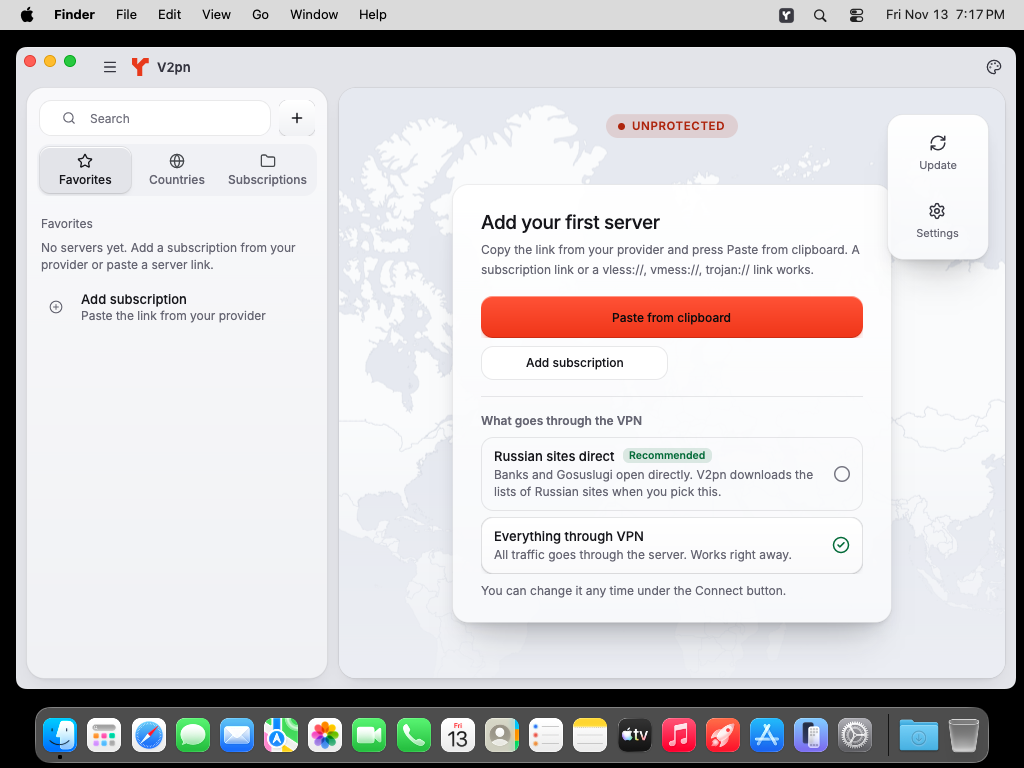
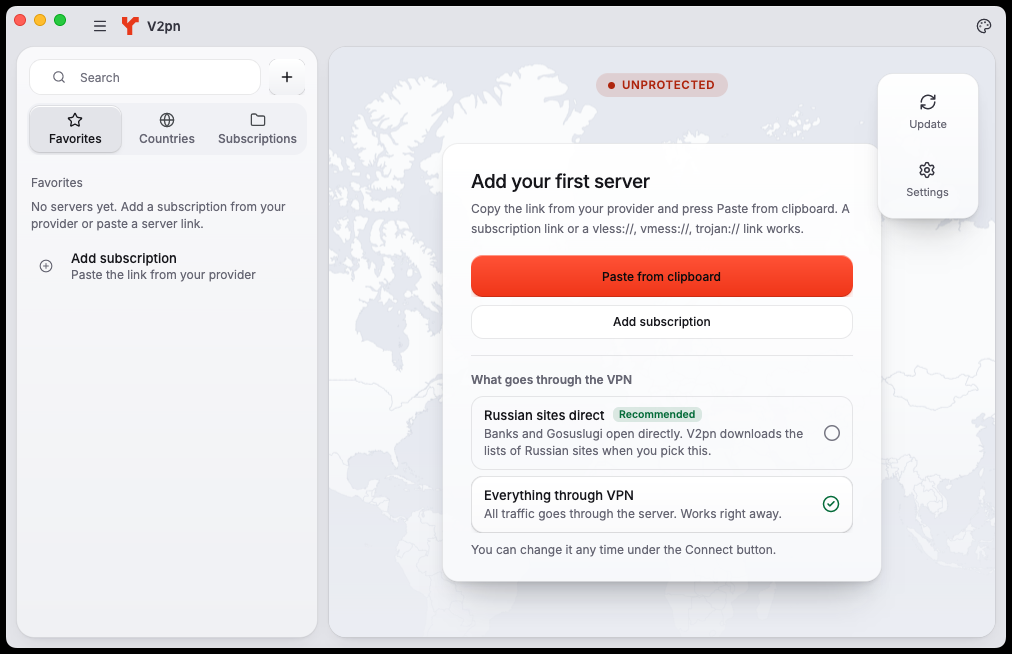
V2pn: front page shows the app in use; release pages say which file to take
README: badges for version, license and build; a screenshot of the connected
app with demo servers (Russian and English) instead of the empty first-run
window; the macOS picture is the current build, cropped to the window; a line
that there is no Linux build and what the inherited v2rayN folders and scripts
are. SECURITY.md says how to report a vulnerability privately. Release notes no
longer repeat the title and end with a download table and a note on the files
meant for the updater (tools/release-notes-footer.md). A social preview image
is in docs/images for the owner to upload.

diff --git a/README.en.md b/README.en.md
@@ -1,10 +1,14 @@
 # V2pn
 
+[![release](https://img.shields.io/github/v/release/Piwqust/V2pn?label=release)](https://github.com/Piwqust/V2pn/releases/latest)
+[![license](https://img.shields.io/github/license/Piwqust/V2pn?label=license)](LICENSE)
+[![build](https://img.shields.io/github/actions/workflow/status/Piwqust/V2pn/v2pn-ci.yml?branch=v2pn&label=build)](https://github.com/Piwqust/V2pn/actions/workflows/v2pn-ci.yml)
+
 A VPN client for Windows and macOS with a simple interface. It runs [v2rayN](https://github.com/2dust/v2rayN) with the Xray, sing-box and mihomo cores inside, so the same servers and subscriptions work: VLESS, VMess, Trojan, Shadowsocks, Hysteria2, TUIC, WireGuard.
 
 [Русский](README.md)
 
-![V2pn main window](docs/images/main.png)
+<p align="center"><img src="docs/images/main-en.png" alt="V2pn main window: the country list, the map and the connection status" width="860"></p>
 
 ## Download
 
@@ -14,6 +18,8 @@ A VPN client for Windows and macOS with a simple interface. It runs [v2rayN](htt
 | Windows 11, ARM64 | [V2pn-windows-arm64.zip](https://github.com/Piwqust/V2pn/releases/latest/download/V2pn-windows-arm64.zip) |
 | macOS 13.6 or later, Apple silicon | [V2pn-macos-arm64.dmg](https://github.com/Piwqust/V2pn/releases/latest/download/V2pn-macos-arm64.dmg) |
 | macOS 13.6 or later, Intel | [V2pn-macos-x64.dmg](https://github.com/Piwqust/V2pn/releases/latest/download/V2pn-macos-x64.dmg) |
+
+There is no Linux build.
 
 All versions: [Releases](https://github.com/Piwqust/V2pn/releases). Changes: [CHANGELOG.md](CHANGELOG.md) (in Russian).
 
@@ -39,7 +45,7 @@ xattr -cr /Applications/V2pn.app
 
 On a Mac, settings and servers live in `~/Library/Application Support/V2pn`.
 
-![V2pn on macOS](docs/images/macos.png)
+<p align="center"><img src="docs/images/macos.png" alt="V2pn on macOS: first run" width="640"></p>
 
 The macOS build is new: an automated check builds it and starts it on a Mac, but few people have used it on real machines yet. If something does not work, [open an issue](https://github.com/Piwqust/V2pn/issues/new/choose).
 
@@ -76,7 +82,7 @@ Every six hours V2pn checks for a new version, downloads it in the background an
 - Settings, servers and cores are not touched by an update.
 - Cores (Xray, sing-box, mihomo) and site lists are updated separately in the same window.
 
-How versions are released and checked: [docs/V2PN-RELEASES.md](docs/V2PN-RELEASES.md) (in Russian).
+What exactly is checked before installing: [docs/V2PN-RELEASES.md](docs/V2PN-RELEASES.md#что-именно-проверяется) (in Russian).
 
 ## Building from source
 
@@ -94,7 +100,14 @@ dotnet build V2pn/v2rayN/v2rayN.Desktop/v2rayN.Desktop.csproj -c Release
 dotnet test --project V2pn/v2rayN/ServiceLib.Tests/ServiceLib.Tests.csproj -c Release
 ```
 
+The sources live in the `v2rayN/` folder: the name is kept from the original so that its updates merge without conflicts. For the same reason the root holds v2rayN's `package-*.sh` scripts; V2pn does not use them.
+
 A build from source shows its version with `-dev` and does not update itself. Release packages are made by `tools/release.ps1` (Windows) and `tools/package-macos.sh` (macOS).
+
+Developer documentation (in Russian):
+
+- [docs/V2PN-UX.md](docs/V2PN-UX.md): how the interface is built and why;
+- [docs/V2PN-RELEASES.md](docs/V2PN-RELEASES.md): releases, updates, the mirror, merging v2rayN.
 
 ## License and credits
 

diff --git a/SECURITY.md b/SECURITY.md
@@ -1,0 +1,28 @@
+# Безопасность / Security
+
+## Как сообщить об уязвимости
+
+Не открывайте публичное обращение. Напишите закрыто: вкладка [Security → Report a vulnerability](https://github.com/Piwqust/V2pn/security/advisories/new) в этом репозитории. Сообщение увидят только сопровождающие.
+
+Напишите, какая версия V2pn и система, что именно происходит и как это повторить. Ссылки подписок и адреса серверов не присылайте: в них ваш ключ доступа.
+
+Что считается уязвимостью V2pn:
+
+- установка обновления, которое не подписано ключом релизов, или обход проверки пакета;
+- выполнение чужого кода или повышение прав через V2pn или его установщик (AmazTool);
+- утечка ключей серверов, ссылок подписок или трафика мимо выбранного режима;
+- доступ к локальному прокси или API ядра из сети или от чужой программы, когда пользователь этого не включал.
+
+Проблемы самих ядер (Xray, sing-box, mihomo) и протоколов сообщайте их авторам; если V2pn усугубляет такую проблему, напишите и сюда.
+
+Исправления выходят в новой версии. Поддерживается только последняя: V2pn обновляется сам.
+
+## Reporting a vulnerability
+
+Please do not open a public issue. Report privately through [Security → Report a vulnerability](https://github.com/Piwqust/V2pn/security/advisories/new); only the maintainers see it.
+
+Include the V2pn version, the operating system, what happens and how to reproduce it. Do not send subscription links or server addresses: they carry your access key.
+
+In scope: installing an update that is not signed with the release key, code execution or privilege escalation through V2pn or its updater (AmazTool), leaks of server keys, subscription links or traffic outside the chosen mode, and access to the local proxy or the core's API from the network or another program when the user did not enable it. Flaws in the cores themselves (Xray, sing-box, mihomo) belong to their authors.
+
+Fixes ship in a new version. Only the latest version is supported; V2pn updates itself.

diff --git a/tools/release-notes-footer.md b/tools/release-notes-footer.md
@@ -1,0 +1,18 @@
+---
+
+### Скачать
+
+| Система | Файл |
+| --- | --- |
+| Windows 10 и 11, x64 | [V2pn-windows-x64.zip](https://github.com/Piwqust/V2pn/releases/download/v{version}/V2pn-windows-x64.zip) |
+| Windows 11, ARM64 | [V2pn-windows-arm64.zip](https://github.com/Piwqust/V2pn/releases/download/v{version}/V2pn-windows-arm64.zip) |
+| macOS 13.6 и новее, Apple silicon (M1 и новее) | [V2pn-macos-arm64.dmg](https://github.com/Piwqust/V2pn/releases/download/v{version}/V2pn-macos-arm64.dmg) |
+| macOS 13.6 и новее, Intel | [V2pn-macos-x64.dmg](https://github.com/Piwqust/V2pn/releases/download/v{version}/V2pn-macos-x64.dmg) |
+
+Если V2pn уже установлен, скачивать ничего не нужно: он обновится сам.
+
+Остальные файлы в списке ниже предназначены не для людей. `-update.zip`, `.zip` для macOS, `release.json` и `release.json.sig` читает само приложение при обновлении; пакет `-update.zip` не содержит ядер и для первой установки не подходит. Файлы `.sha256` — контрольные суммы: `sha256sum -c V2pn-windows-x64.zip.sha256`.
+
+При первом запуске Windows и macOS предупредят, что не знают разработчика: у приложения нет платной подписи. Как установить и пройти предупреждение, написано в [README](https://github.com/Piwqust/V2pn#скачать).
+
+**English.** Take one of the four files in the table; an installed V2pn updates itself. The other files are read by the app's updater, and `-update.zip` has no cores, so it is not for a first install. Install steps and the first-launch warnings are explained in [README.en.md](https://github.com/Piwqust/V2pn/blob/v2pn/README.en.md#download).
